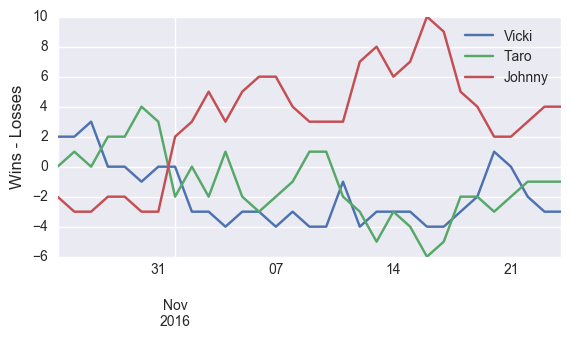
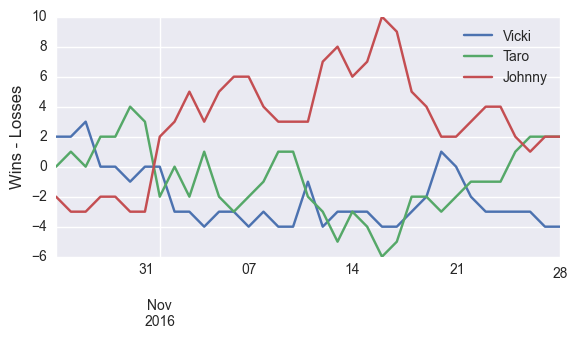
Updated 11/28

diff --git a/index.html b/index.html
@@ -35,7 +35,7 @@
 <a id="the-bet-is-on" class="anchor" href="#the-bet-is-on" aria-hidden="true"><span aria-hidden="true" class="octicon octicon-link"></span></a>The bet is on.</h1>
 
 <h1>
-<a id="current-winner-of-2016-17-season" class="anchor" href="#current-winner-of-2016-17-season" aria-hidden="true"><span aria-hidden="true" class="octicon octicon-link"></span></a>Current winner of 2016-17 Season (as of 11/24/2016):</h1>
+<a id="current-winner-of-2016-17-season" class="anchor" href="#current-winner-of-2016-17-season" aria-hidden="true"><span aria-hidden="true" class="octicon octicon-link"></span></a>Current winner of 2016-17 Season (as of 11/28/2016):</h1>
 
 <h2>
 <a id="none" class="anchor" href="#none" aria-hidden="true"><span aria-hidden="true" class="octicon octicon-link"></span></a><strong>Johnny</strong>
@@ -44,23 +44,23 @@
 <h2>
 <a id="johnny" class="anchor" href="#johnny" aria-hidden="true"><span aria-hidden="true" class="octicon octicon-link"></span></a>Johnny</h2>
 
-<p>Wins: 77<br>
-Losses: 73<br>
-Remaining wins available: 570</p>
+<p>Wins: 85<br>
+Losses: 83<br>
+Remaining wins available: 557</p>
 
 <h2>
 <a id="taro" class="anchor" href="#taro" aria-hidden="true"><span aria-hidden="true" class="octicon octicon-link"></span></a>Taro</h2>
 
-<p>Wins: 73<br>
-Losses: 74<br>
-Remaining wins available: 571</p>
+<p>Wins: 84<br>
+Losses: 82<br>
+Remaining wins available: 557</p>
 
 <h2>
 <a id="vicki" class="anchor" href="#vicki" aria-hidden="true"><span aria-hidden="true" class="octicon octicon-link"></span></a>Vicki</h2>
 
-<p>Wins: 74<br>
-Losses: 77<br>
-Remaining wins available: 571</p>
+<p>Wins: 83<br>
+Losses: 87<br>
+Remaining wins available: 558</p>
 
 <img src='pythoncode/win_percent.png' alt='Winning Percentage Over Time'>
 <h1>
